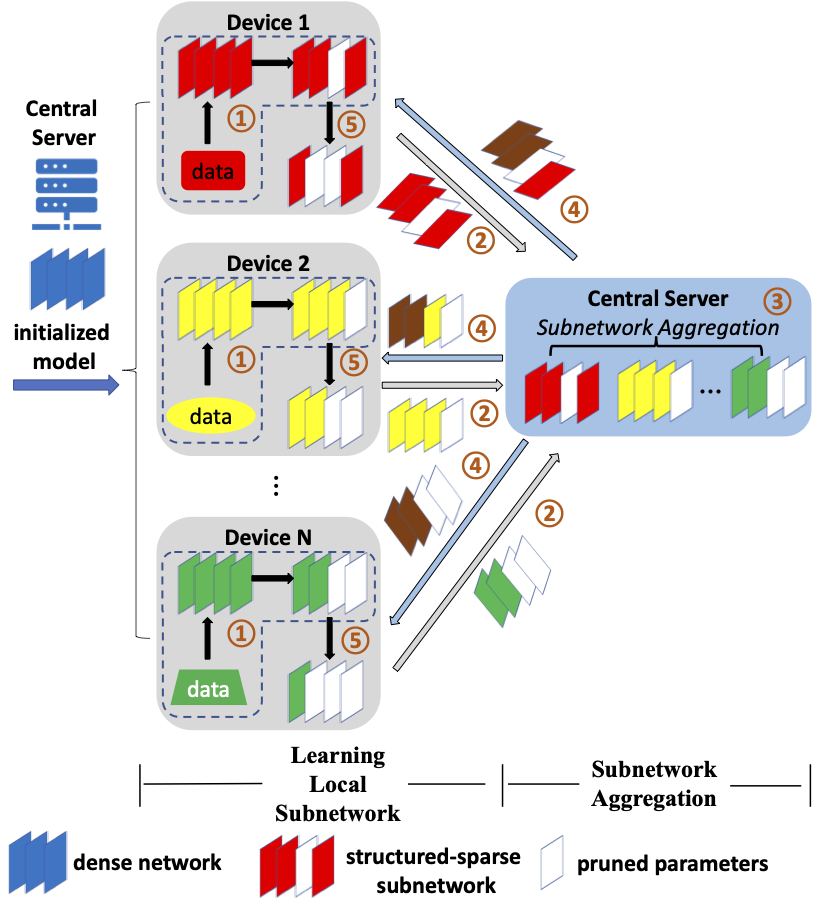
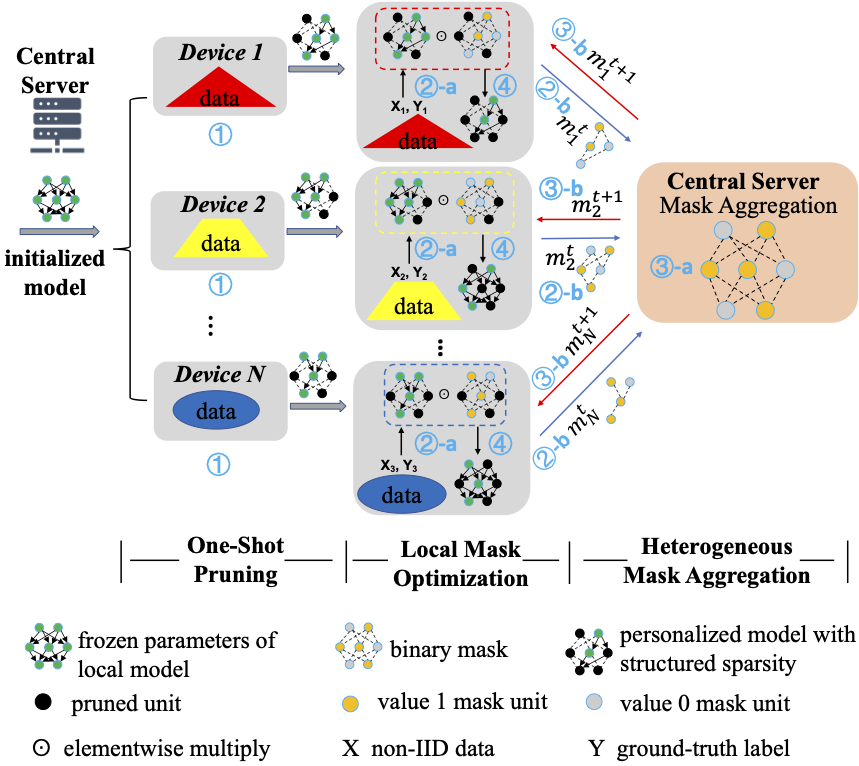
update award in pub

diff --git a/assets/js/bibtex.js b/assets/js/bibtex.js
@@ -54,6 +54,11 @@
     return '<span class="pub-abbr">' + e.fields.abbr + '</span>';
   }
 
+  function awardBadge(e) {
+    if (!e.fields.award) return '';
+    return '<div class="pub-award">' + e.fields.award + '</div>';
+  }
+
   function renderEntry(e, withImage) {
     var authors = formatAuthors(e.fields.author);
     var title = e.fields.title || '';
@@ -71,6 +76,7 @@
         '<div class="pub-title">' + abbrBadge(e) + title + '</div>' +
         '<div class="pub-authors">' + authors + '</div>' +
         '<div class="pub-venue">' + v + (year ? ', ' + year : '') + '</div>' +
+        awardBadge(e) +
         (links ? '<div class="pub-links">' + links + '</div>' : '') +
         '</div></div>';
     }

diff --git a/assets/css/main.css b/assets/css/main.css
@@ -132,6 +132,7 @@ li { margin-bottom: .35rem; }
 }
 .pub-links { margin-top: .25rem; font-size: .8rem; }
 .pub-links a { margin-right: .75rem; }
+.pub-award { color: #d32f2f; font-weight: 600; font-size: .85rem; margin-top: .2rem; }
 .pub-year-heading { font-size: 1.2rem; font-weight: 700; margin: 1.25rem 0 .5rem; color: var(--accent); }
 
 /* === Service, Awards === */
